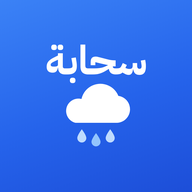
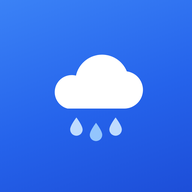
ساعة 24 وأرقام وأيقونة جديدة

Changed region(s): [[0.2188, 0.2188, 0.7812, 0.7812]]

diff --git a/index.html b/index.html
@@ -348,7 +348,7 @@ footer a{color:var(--acc);text-decoration:none}
     </section>
 
     <footer>
-      الرادار: <a href="https://www.rainviewer.com" target="_blank" rel="noopener">Weather data by RainViewer</a> · آخر ساعتين، كل ١٠ دقائق<br>
+      الرادار: <a href="https://www.rainviewer.com" target="_blank" rel="noopener">Weather data by RainViewer</a> · آخر ساعتين، كل 10 دقائق<br>
       السحب: <a href="https://view.eumetsat.int" target="_blank" rel="noopener">© EUMETSAT</a> · التوقعات: <a href="https://open-meteo.com" target="_blank" rel="noopener">Weather data by Open-Meteo.com</a><br>
       الخريطة: <a href="https://www.openstreetmap.org/copyright" target="_blank" rel="noopener">© OpenStreetMap contributors</a> · <a href="https://carto.com/attributions" target="_blank" rel="noopener">© CARTO</a>
     </footer>
@@ -384,7 +384,7 @@ const store = {
   set(k, v){ try{ localStorage.setItem(k, JSON.stringify(v)); }catch(e){} }
 };
 function toast(msg){ const t = $("#toast"); t.textContent = msg; t.classList.add("show"); clearTimeout(t._h); t._h = setTimeout(() => t.classList.remove("show"), 2400); }
-const arNum = n => String(n).replace(/\d/g, d => "٠١٢٣٤٥٦٧٨٩"[d]);
+const arNum = n => String(n);   // digits shown as 0-9
 function fmtClock(date, short){
   let h = date.getHours(), m = date.getMinutes(); const ap = h < 12 ? "ص" : "م"; h = h % 12 || 12;
   return short ? arNum(h) + " " + ap : arNum(h) + ":" + arNum(String(m).padStart(2, "0")) + " " + ap;
@@ -468,12 +468,11 @@ $("#zOut").onclick = () => map.zoomOut();
 // Free RainViewer API (since 1 Jan 2026): past frames only, max zoom 7, colour scheme 2, ~100 req/min/IP.
 // Future frames: Open-Meteo 15-min precipitation sampled on a grid over the view and drawn on a canvas.
 const RV_COLOR = 2, RV_OPTS = "1_0";
-const FC_STEPS = 12;            // 12 x 15 min = 3 hours ahead
-const FC_GRID = 13;             // 13 x 13 sample points
+const FC_STEPS = 6;             // 6 x 10 min = 1 hour ahead (radar extrapolation)
 let rv = null, frames = [], layers = {}, idx = 0, playing = false, playTimer = null;
 let opacity = 0.8;
 const state = { radar:true, clouds:false, coverage:false };
-const fc = { frames:[], bounds:null, zoom:null, at:0, overlay:null, loading:false };
+const fc = { frames:[], overlay:null, loading:false, u:0, v:0, at:0, lat:null, lon:null };
 const total = () => frames.length + fc.frames.length;
 
 function radarLayer(f){
@@ -501,7 +500,7 @@ async function loadRadar(){
     updateSlider();
     showFrame(frames.length - 1);
   }catch(e){ $("#tlTime").textContent = "تعذّر تحميل الرادار"; $("#tlAgo").textContent = ""; }
-  loadFutureGrid(true);
+  loadMotion(true);
 }
 
 function updateSlider(){
@@ -511,79 +510,44 @@ function updateSlider(){
   s.style.setProperty("--split", split + "%");
 }
 
-/* --- future frames --- */
-const RAMP = [[0.1,[136,221,238]],[0.5,[0,153,204]],[1.5,[0,85,136]],[4,[255,238,0]],[10,[255,136,0]],[25,[212,0,0]],[50,[255,102,255]]];
-function rampColor(v){
-  if(v <= RAMP[0][0]) return RAMP[0][1];
-  for(let i = 1; i < RAMP.length; i++){
-    if(v <= RAMP[i][0]){
-      const [a, ca] = RAMP[i - 1], [b, cb] = RAMP[i];
-      const t = (Math.log(v) - Math.log(a)) / (Math.log(b) - Math.log(a));
-      return [0,1,2].map(k => Math.round(ca[k] + (cb[k] - ca[k]) * t));
-    }
-  }
-  return RAMP[RAMP.length - 1][1];
-}
-function renderGrid(grid, N){
-  const W = 180, cv = document.createElement("canvas"); cv.width = cv.height = W;
-  const ctx = cv.getContext("2d"), img = ctx.createImageData(W, W), d = img.data;
-  for(let y = 0; y < W; y++){
-    const gy = y / (W - 1) * (N - 1), y0 = Math.floor(gy), y1 = Math.min(y0 + 1, N - 1), fy = gy - y0;
-    for(let x = 0; x < W; x++){
-      const gx = x / (W - 1) * (N - 1), x0 = Math.floor(gx), x1 = Math.min(x0 + 1, N - 1), fx = gx - x0;
-      const v = (grid[y0*N+x0] * (1-fx) + grid[y0*N+x1] * fx) * (1-fy) + (grid[y1*N+x0] * (1-fx) + grid[y1*N+x1] * fx) * fy;
-      const o = (y * W + x) * 4;
-      if(v < 0.1){ d[o+3] = 0; continue; }
-      const c = rampColor(v);
-      d[o] = c[0]; d[o+1] = c[1]; d[o+2] = c[2]; d[o+3] = v < 0.3 ? 110 + (v - 0.1) / 0.2 * 100 : 215;
-    }
-  }
-  ctx.putImageData(img, 0, 0);
-  return cv.toDataURL("image/png");
-}
-async function loadFutureGrid(force){
+/* --- future frames: the latest real radar image moved along the storm-steering wind --- */
+// Wind at 700 and 500 hPa (Open-Meteo, free) gives the direction and speed rain cells travel.
+// Each future frame is the newest radar frame shifted by that motion — same look as the radar itself.
+const fcPane = map.createPane("nowcast"); fcPane.style.zIndex = 401; fcPane.style.pointerEvents = "none";
+async function loadMotion(force){
   if(fc.loading) return;
-  const view = map.getBounds(), z = map.getZoom();
-  if(!force && fc.bounds && fc.bounds.contains(view) && Math.abs(fc.zoom - z) < 2 && Date.now() - fc.at < 15 * 60000) return;
+  const c = map.getCenter();
+  const far = fc.lat === null || Math.abs(c.lat - fc.lat) > 3 || Math.abs(c.lng - fc.lon) > 3;
+  if(!force && !far && Date.now() - fc.at < 30 * 60000) { buildFuture(); return; }
   fc.loading = true;
-  const b = view.pad(0.35), N = FC_GRID;
-  let s = Math.max(b.getSouth(), -80), n = Math.min(b.getNorth(), 80), w = b.getWest(), e = b.getEast();
-  if(e - w > 340){ w = -170; e = 170; }
-  const my = lat => Math.log(Math.tan(Math.PI / 4 + lat * Math.PI / 360));
-  const iy = y => (2 * Math.atan(Math.exp(y)) - Math.PI / 2) * 180 / Math.PI;
-  const ys = my(s), yn = my(n), lats = [], lons = [];
-  for(let r = 0; r < N; r++){
-    const lat = iy(yn - (yn - ys) * r / (N - 1));          // even spacing on the Mercator map
-    for(let c = 0; c < N; c++){
-      const lon = ((w + (e - w) * c / (N - 1)) + 540) % 360 - 180;
-      lats.push(lat.toFixed(3)); lons.push(lon.toFixed(3));
-    }
-  }
   try{
-    const url = "https://api.open-meteo.com/v1/forecast?latitude=" + lats.join(",") + "&longitude=" + lons.join(",") +
-      "&minutely_15=precipitation&forecast_minutely_15=" + (FC_STEPS + 4) + "&timezone=GMT";
-    const j = await (await fetch(url)).json();
-    const arr = Array.isArray(j) ? j : [j];
-    if(arr.length !== N * N || !arr[0].minutely_15) throw new Error("grid");
-    const times = arr[0].minutely_15.time.map(t => Date.parse(t + "Z") / 1000);
-    const after = frames.length ? frames[frames.length - 1].time : Date.now() / 1000 - 600;
-    const out = [];
-    times.forEach((t, k) => {
-      if(t <= after || out.length >= FC_STEPS) return;
-      const grid = new Float32Array(N * N);
-      for(let p = 0; p < N * N; p++) grid[p] = (arr[p].minutely_15.precipitation[k] || 0) * 4;   // mm per 15 min -> mm/h
-      out.push({ time:t, url:renderGrid(grid, N) });
-    });
-    const wasFuture = idx >= frames.length;
-    fc.frames = out; fc.bounds = L.latLngBounds([s, w], [n, e]); fc.zoom = z; fc.at = Date.now();
-    if(fc.overlay){ map.removeLayer(fc.overlay); fc.overlay = null; }
-    updateSlider();
-    if(wasFuture || playing) showFrame(Math.min(idx, total() - 1));
-  }catch(err){}
+    const u = "https://api.open-meteo.com/v1/forecast?latitude=" + c.lat.toFixed(2) + "&longitude=" + c.lng.toFixed(2) +
+      "&hourly=wind_speed_700hPa,wind_direction_700hPa,wind_speed_500hPa,wind_direction_500hPa&forecast_hours=2&timezone=GMT";
+    const j = await (await fetch(u)).json(), H = j.hourly;
+    const vec = (s, d) => [-s * Math.sin(d * Math.PI / 180), -s * Math.cos(d * Math.PI / 180)];   // km/h toward east, north
+    const a7 = vec(H.wind_speed_700hPa[0], H.wind_direction_700hPa[0]), a5 = vec(H.wind_speed_500hPa[0], H.wind_direction_500hPa[0]);
+    fc.u = 0.6 * a7[0] + 0.4 * a5[0]; fc.v = 0.6 * a7[1] + 0.4 * a5[1];
+    fc.lat = c.lat; fc.lon = c.lng; fc.at = Date.now();
+  }catch(err){ fc.u = fc.v = 0; }
   fc.loading = false;
+  buildFuture();
+}
+function buildFuture(){
+  if(!frames.length){ fc.frames = []; updateSlider(); return; }
+  const last = frames[frames.length - 1].time;
+  fc.frames = Array.from({ length:FC_STEPS }, (_, k) => ({ time:last + (k + 1) * 600, k:k + 1 }));
+  updateSlider();
+  if(idx >= frames.length) showFrame(Math.min(idx, total() - 1));
+}
+function placeFuture(k){
+  const c = map.getCenter(), mins = k * 10;
+  const dLat = (fc.v * mins / 60) / 111, dLon = (fc.u * mins / 60) / (111 * Math.cos(c.lat * Math.PI / 180));
+  const p0 = map.latLngToLayerPoint(c), p1 = map.latLngToLayerPoint([c.lat + dLat, c.lng + dLon]);
+  fcPane.style.transform = "translate3d(" + (p1.x - p0.x) + "px," + (p1.y - p0.y) + "px,0)";
 }
 let moveTimer = null;
-map.on("moveend", () => { clearTimeout(moveTimer); moveTimer = setTimeout(() => loadFutureGrid(false), 700); });
+map.on("moveend", () => { clearTimeout(moveTimer); moveTimer = setTimeout(() => loadMotion(false), 700); });
+map.on("zoomend", () => { if(idx >= frames.length && fc.frames.length) placeFuture(fc.frames[idx - frames.length].k); });
 
 function showFrame(i){
   const n = total(); if(!n) return;
@@ -598,15 +562,23 @@ function showFrame(i){
       if(fc.overlay) fc.overlay.setOpacity(0);
     }else{
       Object.values(layers).forEach(l => l.setOpacity(0));
-      if(!fc.overlay) fc.overlay = L.imageOverlay(f.url, fc.bounds, { opacity, zIndex:400, interactive:false, className:"fc-img", attribution:"Open-Meteo" }).addTo(map);
-      else { fc.overlay.setUrl(f.url); fc.overlay.setOpacity(opacity); }
+      const lastF = frames[frames.length - 1];
+      if(!fc.overlay || fc.overlay._path !== lastF.path){
+        if(fc.overlay) map.removeLayer(fc.overlay);
+        fc.overlay = L.tileLayer(rv.host + lastF.path + "/512/{z}/{x}/{y}/" + RV_COLOR + "/" + RV_OPTS + ".png", {
+          tileSize:512, zoomOffset:-1, maxNativeZoom:8, maxZoom:12, pane:"nowcast", keepBuffer:3
+        });
+        fc.overlay._path = lastF.path; fc.overlay.addTo(map);
+      }
+      placeFuture(f.k);
+      fc.overlay.setOpacity(opacity * (1 - 0.07 * f.k));
     }
   }
   $("#slider").value = i;
   const t = new Date(f.time * 1000), mins = Math.round((t.getTime() - Date.now()) / 60000);
-  $("#tlTime").textContent = fmtClock(t);
+  $("#tlTime").textContent = String(t.getHours()).padStart(2, "0") + ":" + String(t.getMinutes()).padStart(2, "0");
   $(".ptime").classList.toggle("fut", future);
-  $("#tlAgo").textContent = future ? "توقع · بعد " + arNum(Math.max(mins, 5)) + " دقيقة"
+  $("#tlAgo").textContent = future ? "توقع · بعد " + arNum(f.k * 10) + " دقيقة من آخر رادار"
     : (i === frames.length - 1 ? "الآن · " : "") + "رادار · قبل " + arNum(Math.max(-mins, 0)) + " دقيقة";
 }
 
@@ -805,7 +777,7 @@ async function showTop(){
     d.innerHTML = '<span class="rk"></span><span class="nm"></span><span class="cnt"></span>';
     d.querySelector(".rk").textContent = arNum(i + 1);
     d.querySelector(".nm").textContent = x.c[0];
-    d.querySelector(".cnt").textContent = x.n.toLocaleString("ar-SA");
+    d.querySelector(".cnt").textContent = x.n.toLocaleString("en-US");
     d.onclick = () => { box.style.display = "none"; $("#q").blur(); $("#locBtn").classList.remove("on"); countSearch(x.c[1], x.c[2]); setPlace({ name:x.c[0], lat:x.c[1], lon:x.c[2] }, true); };
     box.appendChild(d);
   });
@@ -860,9 +832,9 @@ function renderNow(j){
   $("#nowT").textContent = arNum(Math.round(c.temperature_2m)) + "°";
   $("#nowD").textContent = (WMO[c.weather_code] || "—") + (c.precipitation > 0 ? " · " + arNum(c.precipitation) + " مم" : "");
   $("#sFeel").textContent = arNum(Math.round(c.apparent_temperature)) + "°";
-  $("#sHum").textContent = arNum(c.relative_humidity_2m) + "٪";
+  $("#sHum").textContent = arNum(c.relative_humidity_2m) + "%";
   $("#sWind").textContent = arNum(Math.round(c.wind_speed_10m));
-  $("#sCloud").textContent = arNum(c.cloud_cover) + "٪";
+  $("#sCloud").textContent = arNum(c.cloud_cover) + "%";
 }
 
 function renderNowcast(j){
@@ -885,7 +857,7 @@ function renderNowcast(j){
   }else{
     const hp = j.hourly.precipitation_probability, hs = Math.max(0, j.hourly.time.findIndex(t => t >= nowStr.slice(0, 13)));
     const next = hp.slice(hs, hs + 12), pk = Math.max(...next), pi = next.indexOf(pk);
-    if(pk >= 40) setAlert("dry", ICONS.clock, "لا مطر خلال ساعتين — احتمال " + arNum(pk) + "٪ بعد " + arNum(pi) + " ساعات");
+    if(pk >= 40) setAlert("dry", ICONS.clock, "لا مطر خلال ساعتين — احتمال " + arNum(pk) + "% بعد " + arNum(pi) + " ساعات");
     else setAlert("dry", ICONS.check, "لا مطر متوقع في " + place.name + " خلال الساعات القادمة");
   }
 }
@@ -897,7 +869,7 @@ function renderHours(j){
     const p = h.precipitation_probability[i];
     const el = document.createElement("div"); el.className = "h" + (i === s ? " cur" : "");
     el.innerHTML = "<small>" + (i === s ? "الآن" : fmtClock(new Date(h.time[i]), true)) + '</small><div class="e">' + icon(h.weather_code[i], h.is_day[i]) + "</div><b>" +
-      arNum(Math.round(h.temperature_2m[i])) + '°</b><div class="p">' + (p >= 10 ? arNum(p) + "٪" : "") + "</div>";
+      arNum(Math.round(h.temperature_2m[i])) + '°</b><div class="p">' + (p >= 10 ? arNum(p) + "%" : "") + "</div>";
     box.appendChild(el);
   }
   box.scrollLeft = 0;
@@ -913,7 +885,7 @@ function renderDays(j){
     el.innerHTML = "<span>" + (i === 0 ? "اليوم" : DAYS[dt.getDay()]) + '</span><div class="e">' + icon(d.weather_code[i], 1) + "</div>" +
       '<div class="rngw"><small>' + arNum(Math.round(d.temperature_2m_min[i])) + '°</small><div class="rng"><i style="left:' + a + "%;width:" + Math.max(5, b - a) + '%"></i></div><b>' +
       arNum(Math.round(d.temperature_2m_max[i])) + '°</b></div><span class="pp">' +
-      (p >= 10 ? arNum(p) + "٪" + (d.precipitation_sum[i] > 0 ? "<br>" + arNum(d.precipitation_sum[i].toFixed(1)) + " مم" : "") : "") + "</span>";
+      (p >= 10 ? arNum(p) + "%" + (d.precipitation_sum[i] > 0 ? "<br>" + arNum(d.precipitation_sum[i].toFixed(1)) + " مم" : "") : "") + "</span>";
     box.appendChild(el);
   });
 }
@@ -936,7 +908,7 @@ async function loadVisitors(){
     const j = r.status === 404 ? { value:0 } : (r.ok ? await r.json() : {});
     if(typeof j.value !== "number") return;
     if(mode === "hit") store.set("rr_counted", today);
-    $("#visitsN").textContent = j.value.toLocaleString("ar-SA");
+    $("#visitsN").textContent = j.value.toLocaleString("en-US");
     $("#visits").hidden = false;
   }catch(e){}
 }
